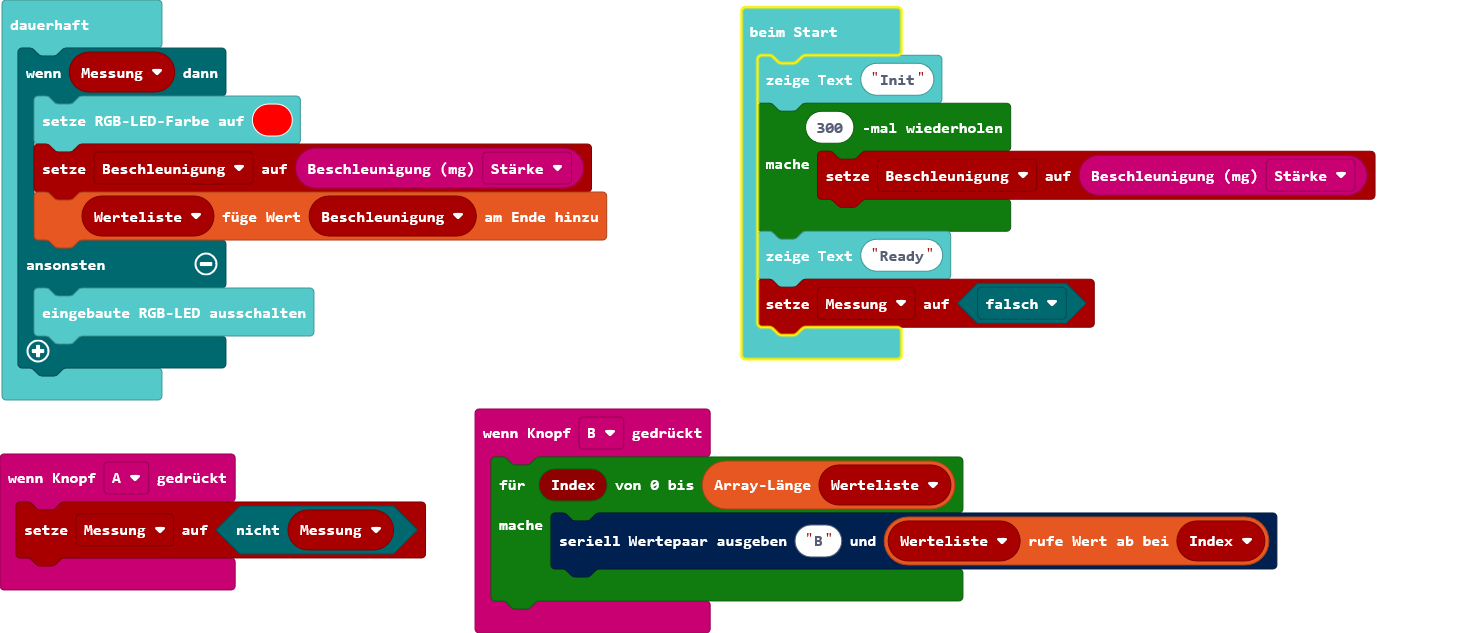
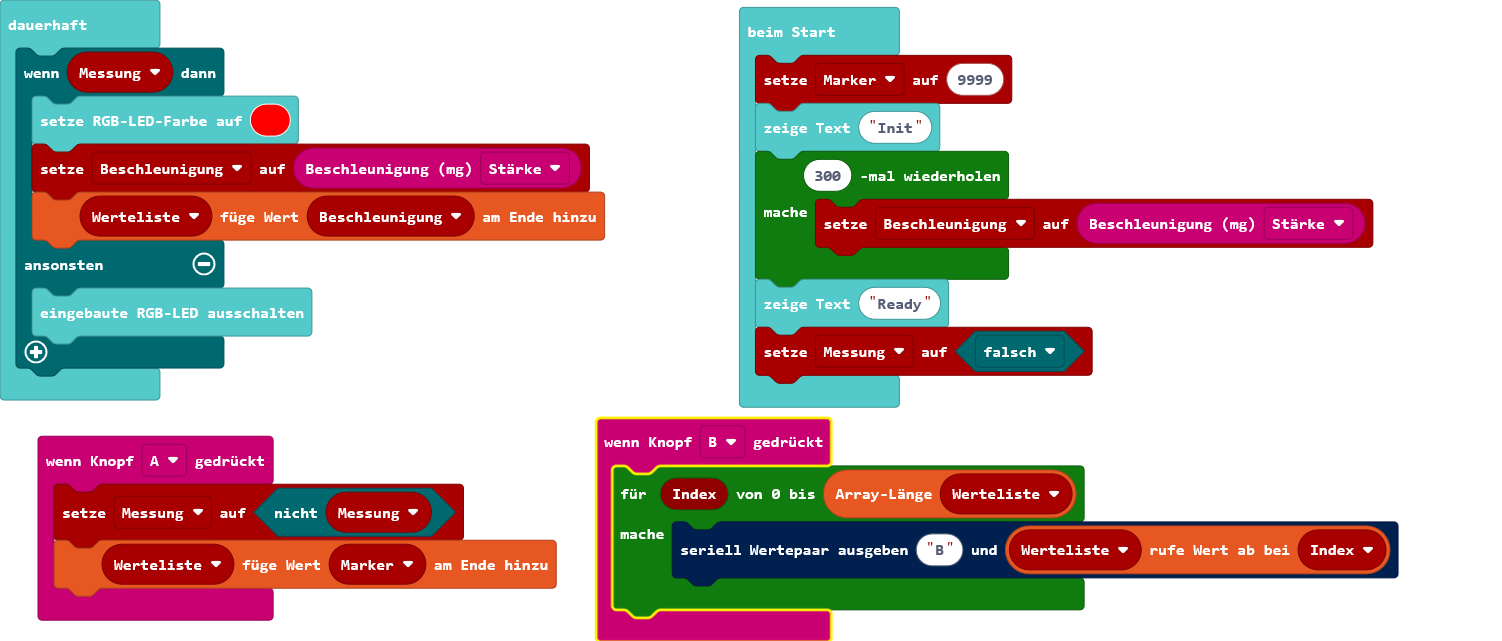
Aktualisiere main.blocks, main.ts

diff --git a/main.ts b/main.ts
@@ -1,5 +1,6 @@
 input.onButtonPressed(Button.A, function () {
     Messung = !(Messung)
+    Werteliste.push(Marker)
 })
 input.onButtonPressed(Button.B, function () {
     for (let Index = 0; Index <= Werteliste.length; Index++) {
@@ -9,6 +10,8 @@ input.onButtonPressed(Button.B, function () {
 let Werteliste: number[] = []
 let Messung = false
 let Beschleunigung = 0
+let Marker = 0
+Marker = 9999
 basic.showString("Init")
 for (let index = 0; index < 300; index++) {
     Beschleunigung = input.acceleration(Dimension.Strength)
